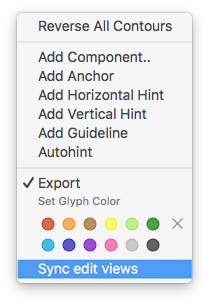
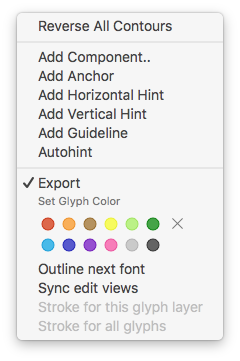
Outline view mode update

Changed region(s): [[0.0574, 0.0296, 0.9474, 0.9474], [0.8325, 0.7105, 0.89, 0.7697], [0.7177, 0.5921, 0.7751, 0.6513]]

diff --git a/showNextFont.glyphsReporter/Contents/Resources/plugin.py b/showNextFont.glyphsReporter/Contents/Resources/plugin.py
@@ -8,6 +8,9 @@ class showNextFont(ReporterPlugin):
 
 	def settings(self):
 		self.menuName = Glyphs.localize({'en': u'Next Font'})
+
+	# default centering setting:
+		Glyphs.registerDefault("com.guidoferreyra.showNextFont.fill", 0)
 	
 	def drawNextFont( self, layer ):
 		try:
@@ -37,13 +40,22 @@ class showNextFont(ReporterPlugin):
 			# draw path AND components:
 			NSColor.colorWithCalibratedRed_green_blue_alpha_( *drawingColor ).set()
 			#thisBezierPathWithComponent = Layer.copyDecomposedLayer().bezierPath
+			
 			try:
 				thisBezierPathWithComponent = nextLayer.copyDecomposedLayer().bezierPath()
 			except:
 	 			thisBezierPathWithComponent = nextLayer.copyDecomposedLayer().bezierPath
-				
+			
 			if thisBezierPathWithComponent:
-				thisBezierPathWithComponent.fill()
+				print Glyphs.defaults["com.guidoferreyra.showNextFont.fill"]
+				if Glyphs.defaults["com.guidoferreyra.showNextFont.fill"]:
+					thisBezierPathWithComponent.fill()
+				else:
+					drawingColor = 0.91, 0.32, 0.06, 0.9
+					NSColor.colorWithCalibratedRed_green_blue_alpha_( *drawingColor ).set()
+					thisBezierPathWithComponent.setLineWidth_(0)
+					thisBezierPathWithComponent.stroke()
+
 
 		except Exception, e:
 			pass
@@ -99,12 +111,34 @@ class showNextFont(ReporterPlugin):
 		# Empty list of context menu items
 		contextMenus = []
 
+		if not Glyphs.defaults["com.guidoferreyra.showNextFont.fill"]:
+			contextMenus.append(
+				{
+					'name': Glyphs.localize({
+						'en': u'Fill next font'
+					}), 'action': self.toggleFill
+				},
+			)
+		else:
+			contextMenus.append(
+				{
+					'name': Glyphs.localize({
+						'en': u'Outline next font'
+					}), 'action': self.toggleFill
+				},
+			)
+
 		# Execute only if layers are actually selected
 		if Glyphs.font.selectedLayers:
 			layer = Glyphs.font.selectedLayers[0]
-		
+	
 			contextMenus.append({'name': Glyphs.localize({'en': u'Sync edit views'}), 'action': self.syncViews})
 
 		# Return list of context menu items
 		return contextMenus
+
+	def toggleFill(self):
+		Glyphs.defaults["com.guidoferreyra.showNextFont.fill"] = not Glyphs.defaults["com.guidoferreyra.showNextFont.fill"]
+		
+
 		

diff --git a/README.md b/README.md
@@ -1,6 +1,6 @@
 Show Next Font
 ==============
-This plugin shows in a light orange colour the same glyph of another opened font. It could be useful for visual comparison of italics with normal styles,or different versions of the same font. 
+This plugin shows in a light orange colour the same glyph of another opened font. It can be useful for visual comparison of italics with normal styles,or different versions of the same font. 
 
 ![](screen-nextfont.png)
 
@@ -9,14 +9,15 @@ This plugin shows in a light orange colour the same glyph of another opened font
 Open two fonts and activate the plugin via **View>Show Next Font** menu item.
 The ammount of masters of the fonts should be the same, in case of difference the plugin shows the first master only.
 
-To sync edit view bwetween fonts, right-click when editing a glyph and choose 
-"Sync edit views".
+Under the right click menu you can find a menu item to swap next font view between outline and fill mode.
+
+Also under the same menu you can sync edit views across open fonts via the "Sync edit views" item.
 
 ![](screen-nextfont2.png)
 
 ### Installation:
-Download the plugin, open it and restart glyphs.
-For better update handling install the script via the **Window > Plugin Manager** inside Glyphs App.
+
+For better update handling install the plugin via the **Window > Plugin Manager** inside Glyphs App and restart the app.
 
 ### Note:
 This plugin was inspired by the Show Next Master plugin from Mark Frömberg (mirque.de).
